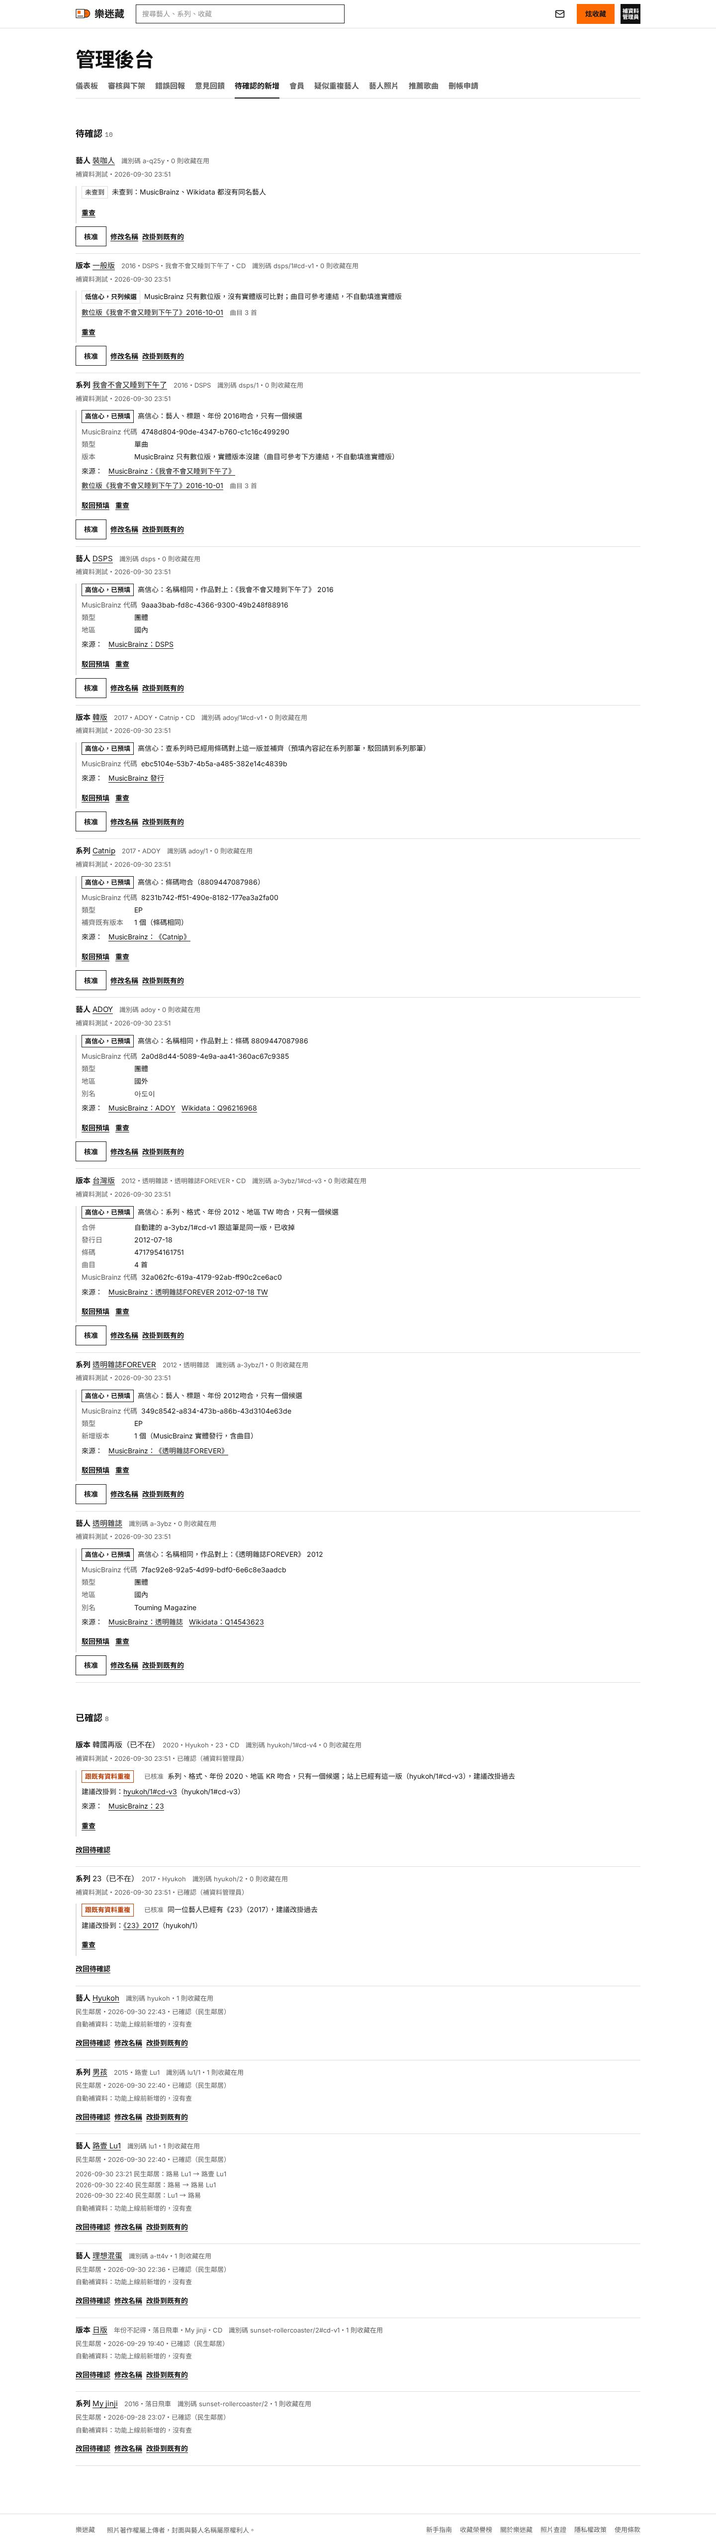
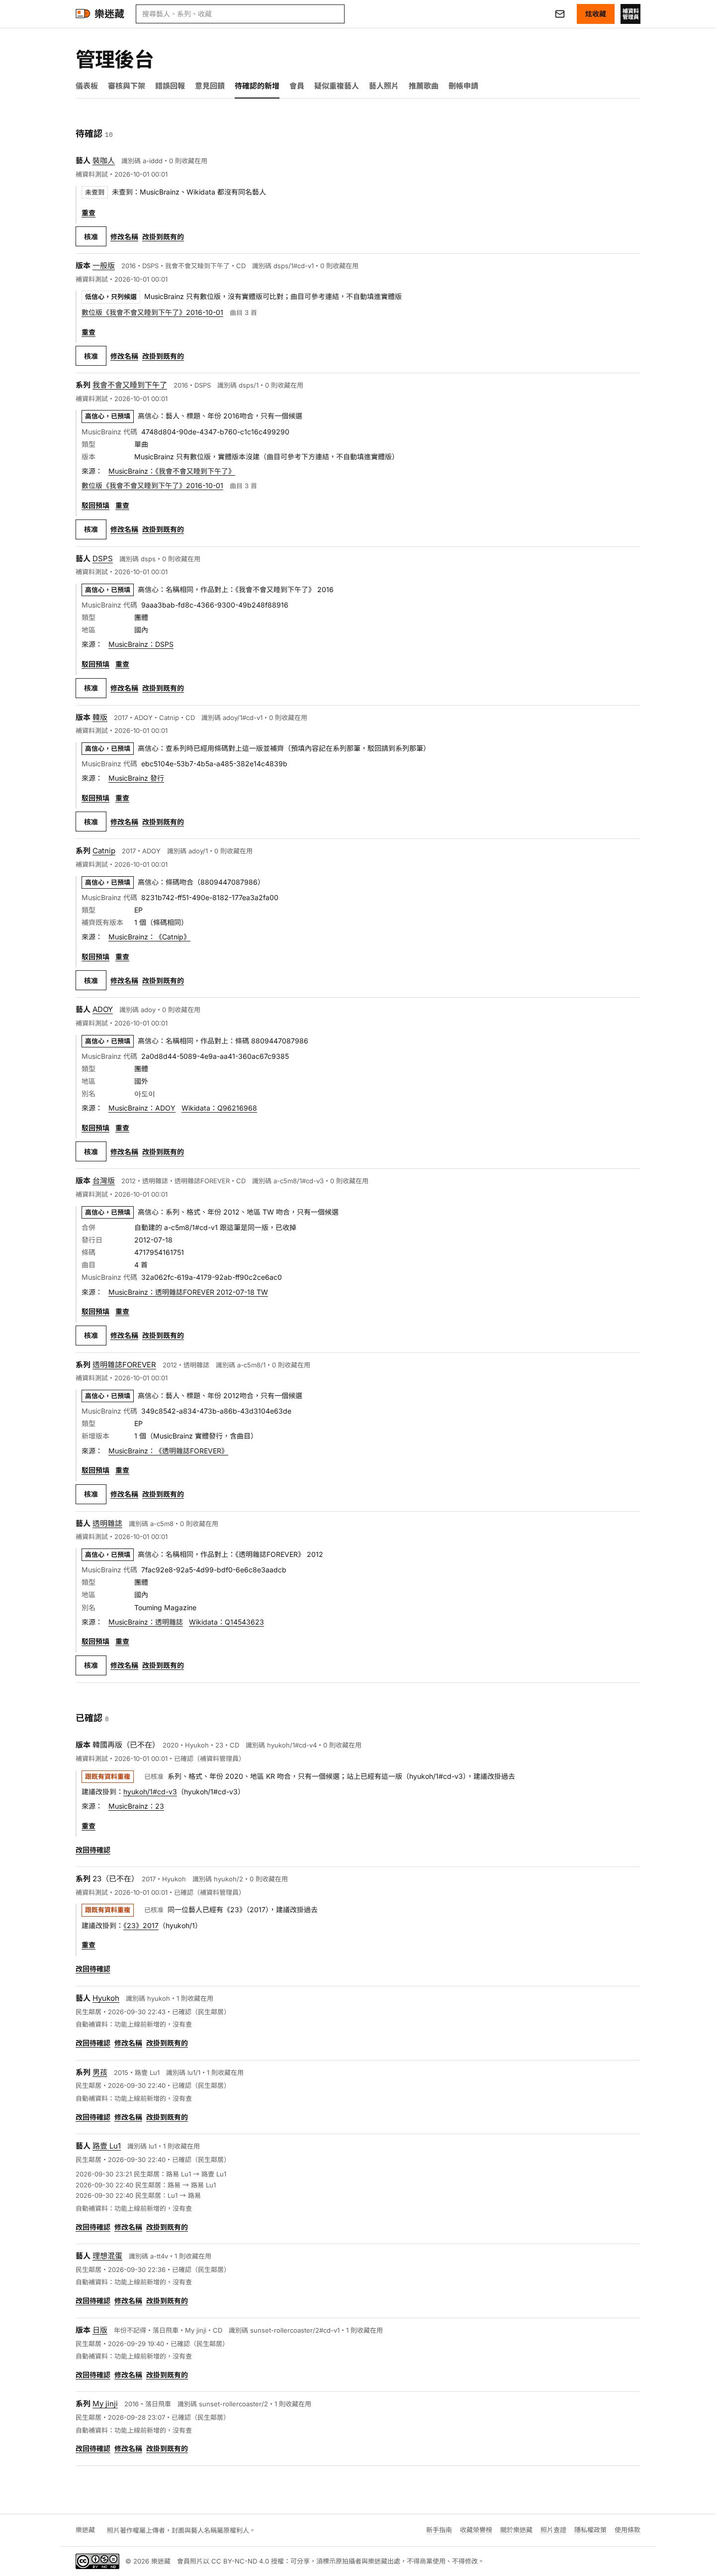
自動補資料：rebase 到 main，遷移改 0025；後台名稱連結不預先載入（本機重跑 16/16）
Claude-Session: https://claude.ai/code/session_016Pgk2nLaWZm8WqvW1dNrK5

diff --git a/網站/components/admin-additions.tsx b/網站/components/admin-additions.tsx
@@ -130,7 +130,7 @@ function Row({ r, done }: { r: AdminAddition; done: () => void }) {
           {r.gone || !r.href ? (
             <span>{r.name}（已不在）</span>
           ) : (
-            <Link className="link" href={r.href} target="_blank" data-testid="add-name">
+            <Link className="link" href={r.href} target="_blank" prefetch={false} data-testid="add-name">
               {r.name}
             </Link>
           )}

diff --git a/產出/20260930_發布時自動補資料/README.md b/產出/20260930_發布時自動補資料/README.md
@@ -50,8 +50,8 @@
 
 ## 驗收
 
-- `_後台驗收_本機.py`：16 項過 15 項。後台 1440／390 各 12 個區塊、四種信心都顯示、沒有橫向溢出、console 0 錯。核准重複系列、版本＝改掛並軟刪除；駁回預填：系列 MBID 與類型還原、自動建的 2 個版本收掉、會員版本還在；重查後重新預填
-- 沒過的 1 項：操作過程出現 2 筆 404，是新增列名稱連結（`/artist/a-q25y`、已改掛的 `/artist/hyukoh/2`）的 RSC 預先載入。那些 Link 原本就在，不是這次加的；這次加的重複目標連結改用一般 `<a>`
+- `_後台驗收_本機.py`：rebase 到 main（4f4263b）、遷移改 0025、用備份 20260930-2359 重跑，16 項全過（5 案例結果與第一輪相同）。第一輪 16 過 15，後台 1440／390 各 12 個區塊、四種信心都顯示、沒有橫向溢出、console 0 錯。核准重複系列、版本＝改掛並軟刪除；駁回預填：系列 MBID 與類型還原、自動建的 2 個版本收掉、會員版本還在；重查後重新預填
+- 沒過的 1 項：操作過程出現 2 筆 404，是新增列名稱連結（`/artist/a-q25y`、已改掛的 `/artist/hyukoh/2`）的 RSC 預先載入。那些 Link 原本就在，不是這次加的；這次加的重複目標連結改用一般 `<a>`，名稱連結加 `prefetch={false}` 後 404 消失
 - tsc 0 錯、lint 0 錯（1 個 layout 字型警告是原本就有的）
 - 舊驗收 `20260929_用字與版本欄`：拿正式站備份跑，15 過 3 敗，第 4 段中斷。都是資料不同：那支腳本寫給本機示範資料，正式站的 `sunset-rollercoaster/1` 標題是「My jinji 日版」、CD 底下沒有「一般版」。沒做改前改後對照
 - 第一次跑遇到 MusicBrainz 503 兩次，工作 2 分鐘後自動重跑成功；之後加了「等 3 秒重試一次」
